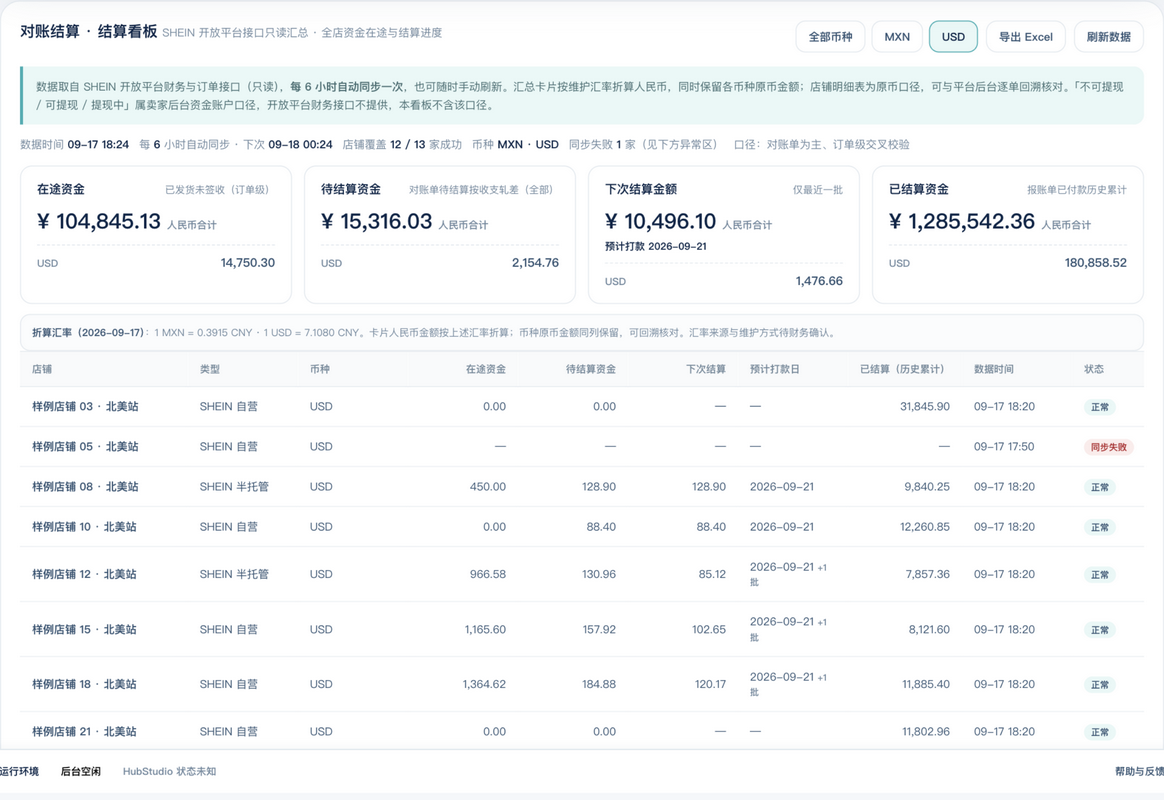
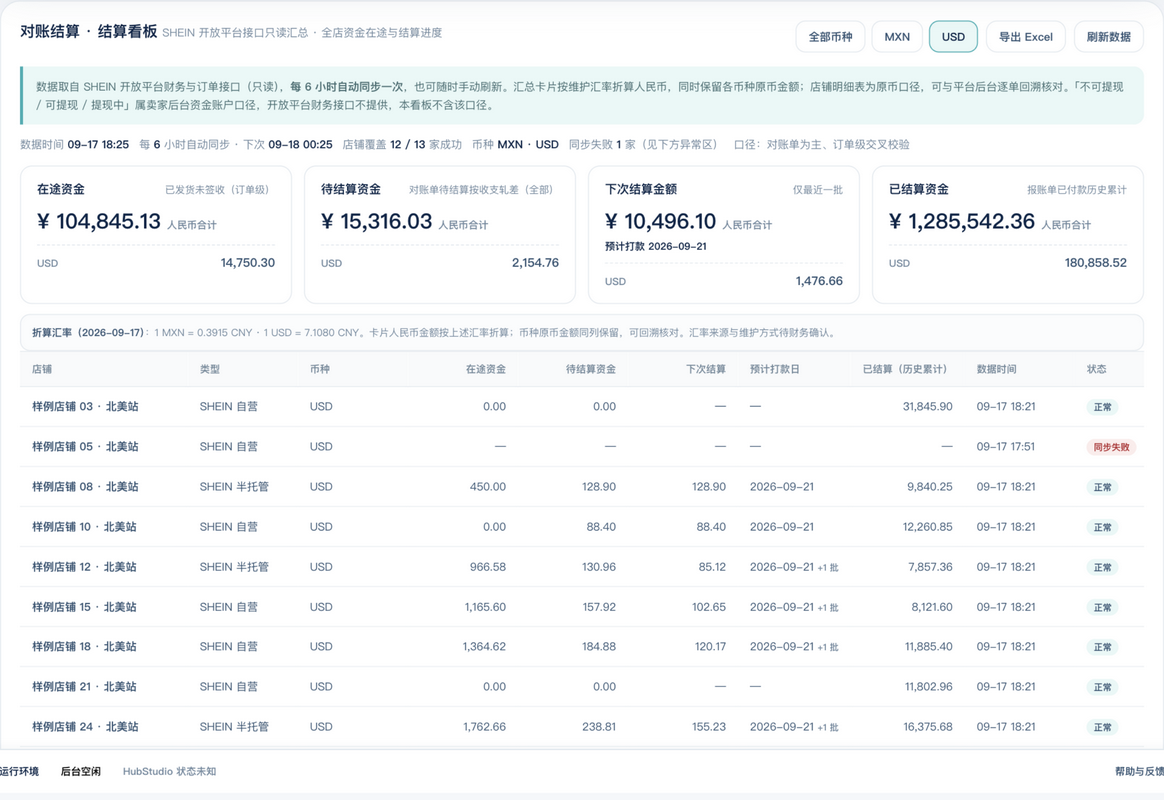
style(finance): 结算看板打款日列不换行
「2026-09-21 +1 批」在较窄的列里会把「批」字折到第二行。该列加 nowrap，
实测单元格回到单行、行高一致。

diff --git a/cloud/auth-service/src/xynigo_auth/web/index.html b/cloud/auth-service/src/xynigo_auth/web/index.html
@@ -1516,6 +1516,8 @@
   .settle-native-row .due { color: var(--rhino-700); font-size: 10px; font-weight: 800; }
   .settle-card-due { margin-top: 4px; color: var(--rhino-700); font-size: 10px; font-weight: 800; }
   .settle-more { color: var(--navy-500); font-size: 9px; font-weight: 800; }
+  /* 打款日 + 「+N 批」提示不换行，避免「批」字被折到第二行 */
+  .settle-table td.pay-date { white-space: nowrap; }
   .settle-fx { margin-top: 10px; padding: 9px 11px; border-radius: 10px; background: #fbfcfd; border: 1px solid var(--line); color: var(--navy-500); font-size: 10px; line-height: 1.7; }
   .settle-fx b { color: var(--navy-700); font-size: 10px; }
   .settle-card-none { margin-top: 10px; color: var(--navy-500); font-size: 11px; }
@@ -14052,7 +14054,7 @@ function settleRenderTable() {
         <td class="num">${settleMoney(store.inTransit)}</td>
         <td class="num">${settleMoney(store.unsettled)}</td>
         <td class="num">${settleMoney(settleNearestBatchAmount(store))}</td>
-        <td>${settleStorePayDatesHtml(store)}</td>
+        <td class="pay-date">${settleStorePayDatesHtml(store)}</td>
         <td class="num">${settleMoney(store.settled)}</td>
         <td>${settleTime(store.at)}</td>
         <td><span class="settle-badge ${cls}">${label}</span></td>

diff --git a/docs/prototypes/20260917-settlement-dashboard/本地预览-结算看板.html b/docs/prototypes/20260917-settlement-dashboard/本地预览-结算看板.html
@@ -1516,6 +1516,8 @@
   .settle-native-row .due { color: var(--rhino-700); font-size: 10px; font-weight: 800; }
   .settle-card-due { margin-top: 4px; color: var(--rhino-700); font-size: 10px; font-weight: 800; }
   .settle-more { color: var(--navy-500); font-size: 9px; font-weight: 800; }
+  /* 打款日 + 「+N 批」提示不换行，避免「批」字被折到第二行 */
+  .settle-table td.pay-date { white-space: nowrap; }
   .settle-fx { margin-top: 10px; padding: 9px 11px; border-radius: 10px; background: #fbfcfd; border: 1px solid var(--line); color: var(--navy-500); font-size: 10px; line-height: 1.7; }
   .settle-fx b { color: var(--navy-700); font-size: 10px; }
   .settle-card-none { margin-top: 10px; color: var(--navy-500); font-size: 11px; }
@@ -14052,7 +14054,7 @@ function settleRenderTable() {
         <td class="num">${settleMoney(store.inTransit)}</td>
         <td class="num">${settleMoney(store.unsettled)}</td>
         <td class="num">${settleMoney(settleNearestBatchAmount(store))}</td>
-        <td>${settleStorePayDatesHtml(store)}</td>
+        <td class="pay-date">${settleStorePayDatesHtml(store)}</td>
         <td class="num">${settleMoney(store.settled)}</td>
         <td>${settleTime(store.at)}</td>
         <td><span class="settle-badge ${cls}">${label}</span></td>

diff --git a/src/purchase_tool/web/index.html b/src/purchase_tool/web/index.html
@@ -1516,6 +1516,8 @@
   .settle-native-row .due { color: var(--rhino-700); font-size: 10px; font-weight: 800; }
   .settle-card-due { margin-top: 4px; color: var(--rhino-700); font-size: 10px; font-weight: 800; }
   .settle-more { color: var(--navy-500); font-size: 9px; font-weight: 800; }
+  /* 打款日 + 「+N 批」提示不换行，避免「批」字被折到第二行 */
+  .settle-table td.pay-date { white-space: nowrap; }
   .settle-fx { margin-top: 10px; padding: 9px 11px; border-radius: 10px; background: #fbfcfd; border: 1px solid var(--line); color: var(--navy-500); font-size: 10px; line-height: 1.7; }
   .settle-fx b { color: var(--navy-700); font-size: 10px; }
   .settle-card-none { margin-top: 10px; color: var(--navy-500); font-size: 11px; }
@@ -14052,7 +14054,7 @@ function settleRenderTable() {
         <td class="num">${settleMoney(store.inTransit)}</td>
         <td class="num">${settleMoney(store.unsettled)}</td>
         <td class="num">${settleMoney(settleNearestBatchAmount(store))}</td>
-        <td>${settleStorePayDatesHtml(store)}</td>
+        <td class="pay-date">${settleStorePayDatesHtml(store)}</td>
         <td class="num">${settleMoney(store.settled)}</td>
         <td>${settleTime(store.at)}</td>
         <td><span class="settle-badge ${cls}">${label}</span></td>
